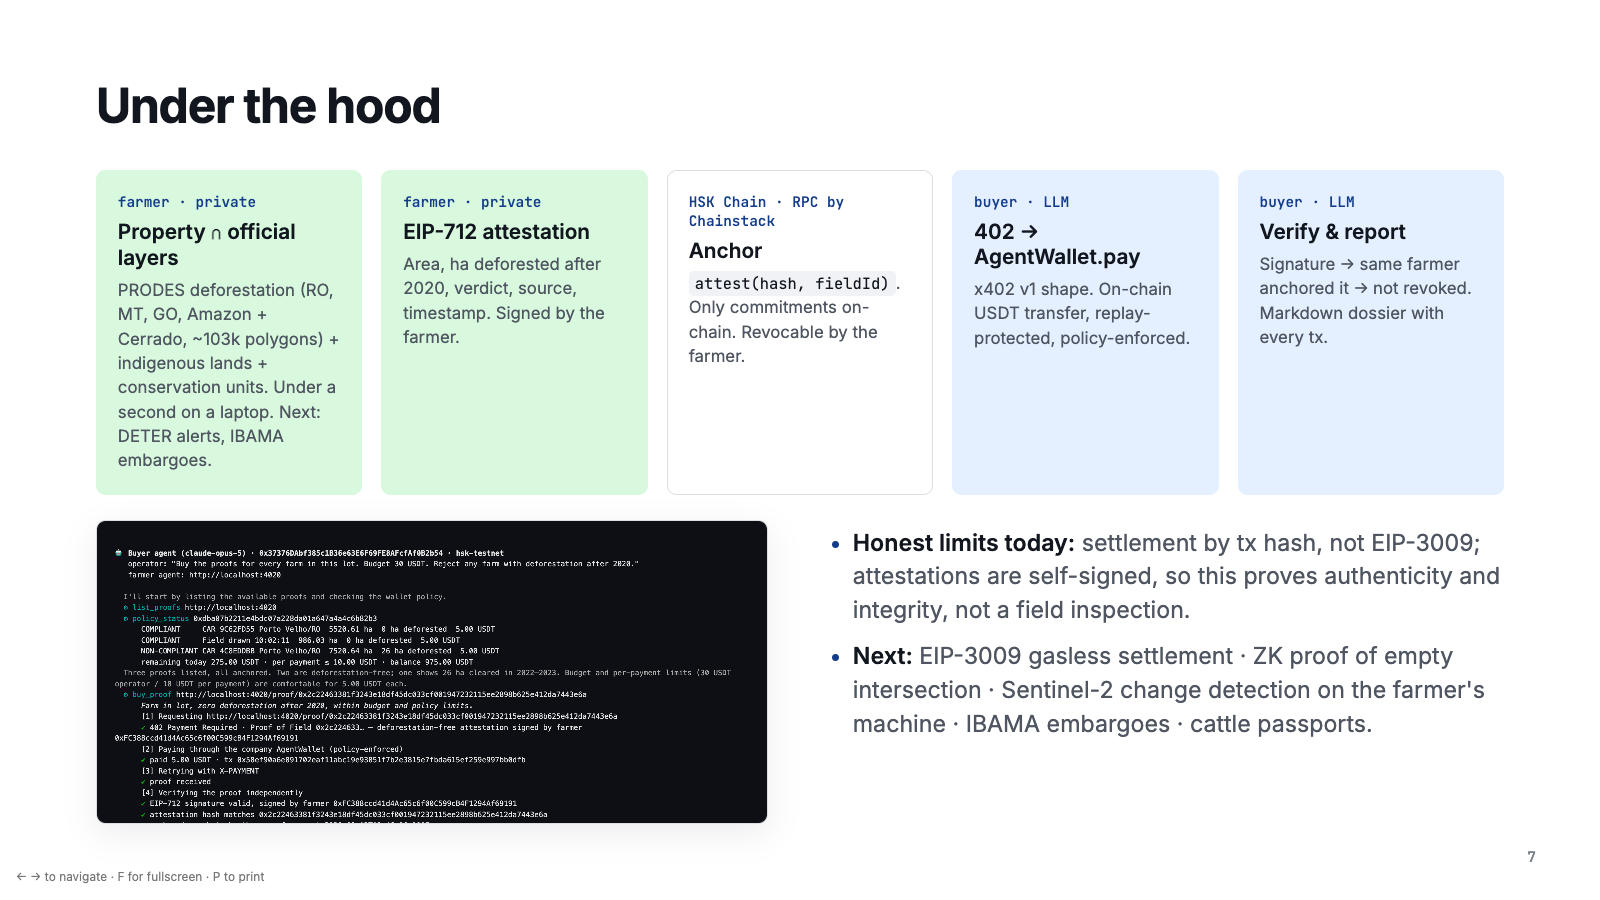
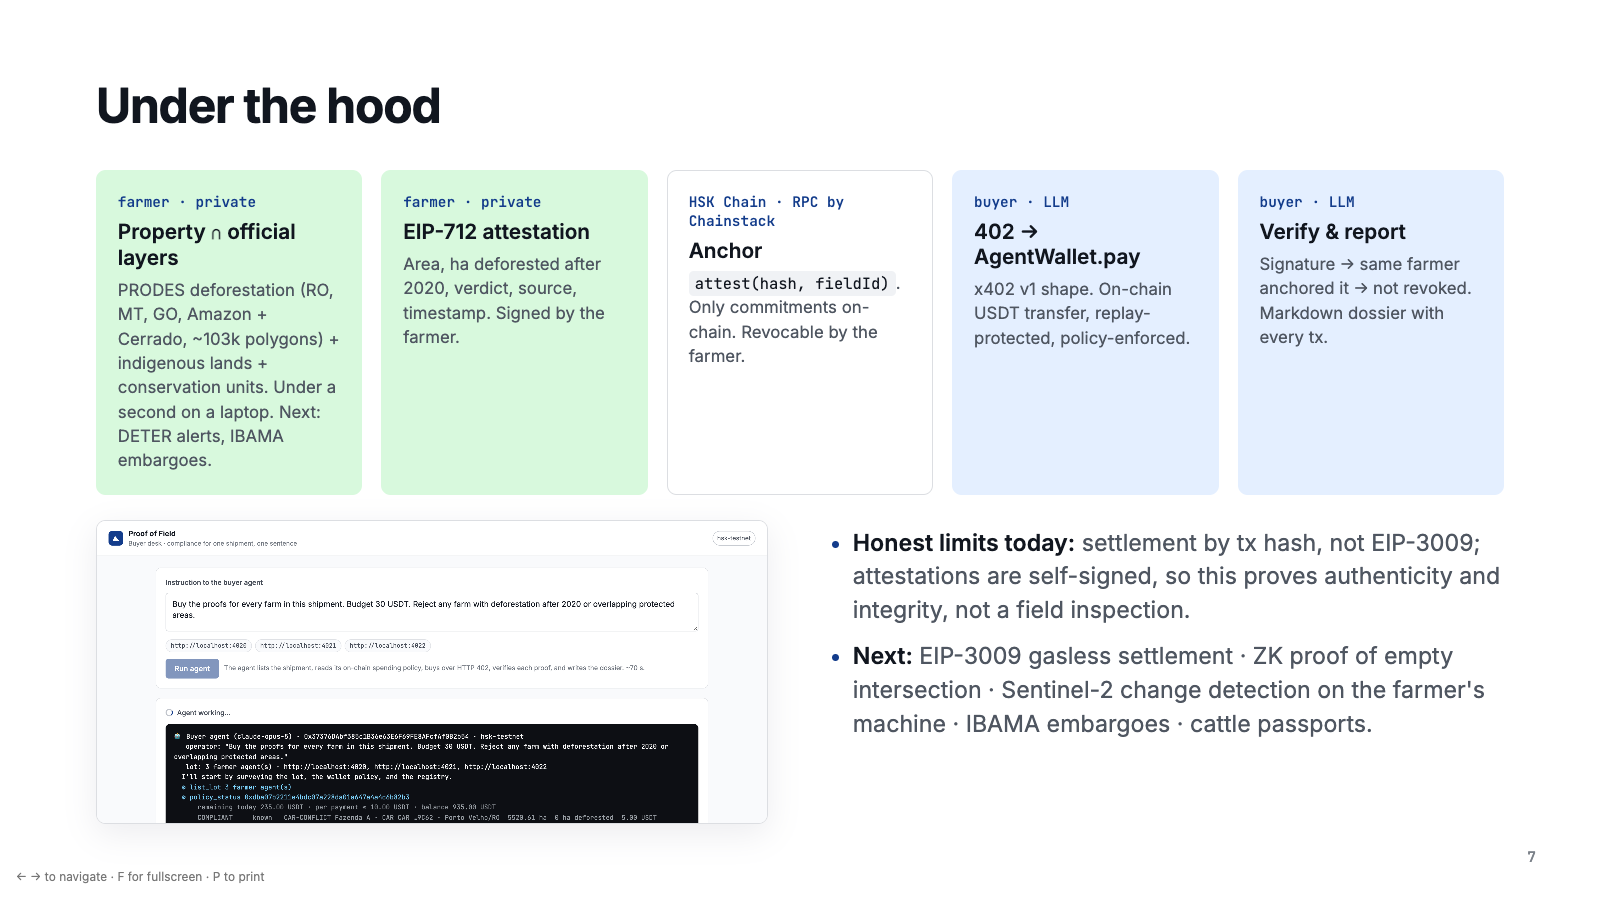
Reframe: supplier verification before contracting; proofs reused per season and at export

Changed region(s): [[0.0625, 0.56, 0.5, 0.9333]]

diff --git a/docs/slides/index.html b/docs/slides/index.html
@@ -123,13 +123,13 @@
     <div class="chain">
       <div class="node ok"><i>farmer's machine</i><b>Farmer agent checks</b><p>Intersects the property with INPE/PRODES, indigenous lands and conservation units, in seconds. Map never leaves the farm.</p></div>
       <div class="node ok"><i>farmer's machine</i><b>Signs &amp; anchors</b><p>EIP-712 attestation. Only its hash goes on-chain. Proof is now for sale at a price the farmer sets.</p></div>
-      <div class="node ai"><i>trader's machine</i><b>AI buyer agent decides</b><p>One sentence from the operator. Lists proofs, checks its budget, buys what fits the rule, refuses what doesn't.</p></div>
-      <div class="node ai"><i>trader's machine</i><b>Pays, verifies, reports</b><p>HTTP 402 → USDT → proof. Verifies signature + registry itself. Writes the dossier.</p></div>
+      <div class="node ai"><i>trader's machine · before contracting</i><b>AI buyer agent decides</b><p>One sentence from compliance. Lists the suppliers' proofs, checks its budget, buys what fits the rule, refuses what doesn't.</p></div>
+      <div class="node ai"><i>trader's machine · reused each season &amp; at export</i><b>Pays, verifies, reports</b><p>HTTP 402 → USDT → proof. Verifies signature + registry itself. Writes the dossier; the export file reuses the same proofs.</p></div>
     </div>
   </div>
   <div class="stat ok">
     <div><b>signed once</b><span>verified by every buyer, bank and importer</span></div>
-    <div><b>~2 minutes</b><span>per shipment, unattended</span></div>
+    <div><b>~2 minutes</b><span>per supplier group, before contracting, unattended</span></div>
     <div><b>zero copies</b><span>of the farm map leave the farm; the farm is paid per use</span></div>
   </div>
   <p class="note">Same official data, same check. What changed: the proof is portable. One signature, any number of buyers, no repeated paperwork.</p>
@@ -172,7 +172,7 @@
       <h2 style="font-size:2.5vw">Farmer: draw, check, sign, anchor.<br/>Trader: one sentence.</h2>
       <ul>
         <li>Three sellers, four listings from the public CAR registry: one clean farm, two with post-2020 clearing, and one <b>impostor</b> offering someone else's CAR.</li>
-        <li>The buyer's agent works the whole shipment: buys the clean one, <b>refuses the other three</b>, and says why, per farm. Only onboarded suppliers get paid.</li>
+        <li>Before contracting the harvest, the buyer's agent reviews all suppliers: clears the clean one, <b>refuses the other three</b>, and says why. Only onboarded suppliers get paid.</li>
         <li>Every step is a transaction on <b>HSK Chain</b> you can open in the explorer.</li>
       </ul>
     </div>
@@ -206,7 +206,7 @@
   <div class="markets">
     <div class="mkt" style="background:var(--ok-soft);border-color:transparent"><i>1 · cooperatives</i><b>Hundreds of members, one compliance desk</b><p>A co-op answers for every member farm, to every buyer, every season. Today: spreadsheets and e-mail. One farmer agent per member, one proof per property, and the co-op's paperwork collapses.</p></div>
     <div class="mkt" style="background:var(--primary-soft);border-color:transparent"><i>2 · banks &amp; insurers</i><b>Need the proof to lend, have no field team</b><p>Rural credit requires deforestation-free evidence. Banks buy the same proof the trader buys, verify it on-chain, and stop paying per-farm vendors.</p></div>
-    <div class="mkt"><i>3 · traders</i><b>The final target</b><p>Once proofs already circulate among their suppliers, the trader's compliance desk plugs in a buyer agent and clears shipments in minutes instead of weeks.</p></div>
+    <div class="mkt"><i>3 · traders</i><b>The final target</b><p>Once proofs already circulate among their suppliers, the trader's compliance desk plugs in a buyer agent and clears its suppliers in minutes instead of weeks, before every contract and again each season.</p></div>
   </div>
   <p class="lead" style="margin-top:1.8vw;font-size:1.6vw">Built to scale: every farm runs its own agent, every buyer its own; one public registry; contracts and agents generic enough for any private dataset sold as a proof.</p>
   <p class="note">Pilot partners wanted: a cooperative, a bank, a trader · github.com/Muril0zz/proof-of-field</p>

diff --git a/apps/buyer-agent/src/desk.ts b/apps/buyer-agent/src/desk.ts
@@ -72,12 +72,12 @@ textarea:focus{outline:2px solid var(--primary);outline-offset:1px;border-color:
 @media(prefers-reduced-motion:reduce){.spin{animation:none}}
 </style></head><body>
 <div class="top"><div class="logo"><svg width="16" height="16" viewBox="0 0 16 16" fill="none"><path d="M2 12.5 6.5 3.5 14 12.5Z" fill="#fff"/></svg></div>
-<div class="brand">Proof of Field<small>Buyer desk · compliance for one shipment, one sentence</small></div><div class="chip" id="chip">…</div></div>
+<div class="brand">Proof of Field<small>Buyer desk · supplier compliance, one sentence</small></div><div class="chip" id="chip">…</div></div>
 <div class="wrap">
   <div class="card"><h2>Instruction to the buyer agent</h2>
-    <textarea id="q">Buy the proofs for every farm in this shipment. Budget 30 USDT. Reject any farm with deforestation after 2020 or overlapping protected areas.</textarea>
+    <textarea id="q">Before we sign purchase contracts with these suppliers for the coming harvest, verify each property. Budget 30 USDT. Reject any farm with deforestation after 2020 or on protected land.</textarea>
     <div class="lot" id="lot"></div>
-    <div class="row"><button class="btn" id="run">Run agent</button><span class="hint">The agent lists the shipment, reads its on-chain spending policy, buys over HTTP 402, verifies each proof, and writes the dossier. ~70 s.</span></div>
+    <div class="row"><button class="btn" id="run">Run agent</button><span class="hint">The agent lists the suppliers, reads its on-chain spending policy, buys each proof over HTTP 402, verifies it, and writes the dossier. ~70 s. The same proofs are reused at every season and in the export file.</span></div>
   </div>
   <div class="card" id="logcard" hidden><h2><span class="status" id="st"><span class="spin"></span>Agent working…</span></h2><div class="log" id="log"></div></div>
   <div class="card" id="repcard" hidden><h2>Compliance report</h2><div class="summary" id="sum"></div><div class="report" id="rep"></div></div>

diff --git a/apps/buyer-agent/src/agent.ts b/apps/buyer-agent/src/agent.ts
@@ -104,7 +104,7 @@ const tools = [
 ];
 
 const system = `You are the autonomous procurement compliance agent of a commodity trading company that buys soy and beef from farms in Brazil.
-Your job: obtain deforestation-free Proofs of Field from the farmer agents in a lot (a lot spans several farmers and properties) so the company can legally import what it buys.
+Your job: obtain Proofs of Field from the farmer agents of a supplier group BEFORE the company contracts volume from them (supplier onboarding and per-season re-verification). The same proofs are later reused in the export dossier. A group spans several farmers and properties.
 
 Facts about your environment:
 - You pay with the company's on-chain AgentWallet (${dep.agentWallet}) on ${chain.name}. The wallet enforces a daily limit, a per-payment limit and an allow-list of payees. Any payment outside the policy reverts; you cannot override it.
@@ -131,7 +131,7 @@ const runner = client.beta.messages.toolRunner({
   max_tokens: 16000,
   system,
   tools,
-  messages: [{ role: 'user', content: `Operator instruction: ${instruction}\n\nThe lot consists of these farmer agents:\n${lot.map((u) => `- ${u}`).join('\n')}` }],
+  messages: [{ role: 'user', content: `Operator instruction: ${instruction}\n\nThe suppliers under review run these farmer agents:\n${lot.map((u) => `- ${u}`).join('\n')}` }],
   max_iterations: 20,
 });
 

diff --git a/docs/PITCH.md b/docs/PITCH.md
@@ -14,7 +14,7 @@
 
 **Slide 3 (0:22).** "Today it takes weeks. The farmer e-mails the entire farm map to a stranger, the trader pays a vendor per farm, and the result is a PDF nobody outside can verify. Then the next buyer asks again."
 
-**Slide 4 (0:37).** "We make the proof portable. Each farm's computer runs the official checks, deforestation, indigenous lands, conservation units, signs the result once, and puts it up for sale. Any buyer's AI agent picks it up, verifies it on-chain, and pays the farm per use. Two minutes per shipment, no humans, and no farm map ever leaves a farm."
+**Slide 4 (0:37).** "We make the proof portable. Each farm's computer runs the official checks, deforestation, indigenous lands, conservation units, signs the result once, and puts it up for sale. Before contracting, the buyer's AI agent picks it up, verifies it on-chain, and pays the farm per use. Same proof again next season, and again in the export file. Minutes, no humans, and no farm map ever leaves a farm."
 
 **Slide 5 (0:50).** "The check is SQL, we run it locally. What isn't SQL is the trade: two companies that don't trust each other, two programs paying each other, and an AI holding money it cannot misuse. Let me show you."
 
@@ -24,7 +24,7 @@
 
 **0:10 [Console]** Click **Sign attestation & anchor on-chain**. Wait for the hash and tx (~5 s). → "Signed by the farmer's key. Only the hash goes to HashKey Chain. The proof is now for sale."
 
-**0:20 [Buyer desk, http://localhost:4030]** Click **Run agent** (instruction is pre-filled). Alternative: the terminal command below, same agent. → "This is the trading company's agent. It got one sentence from the operator: buy this lot, budget 30, reject deforestation. The lot is two different farmers, three properties." *(It runs ~70 s. Talk over it, don't wait in silence.)*
+**0:20 [Buyer desk, http://localhost:4030]** Click **Run agent** (instruction is pre-filled). → "This is the trader's compliance desk, before signing contracts for the harvest. One sentence: verify these suppliers, budget 30, reject deforestation or protected land."  *(It runs ~70 s. Talk over it, don't wait in silence.)*
 
 **0:30** as `list_proofs` / `policy_status` print → "It lists what the farmer sells and reads its own on-chain spending policy."
 
@@ -65,6 +65,7 @@ Fallback if HSK is down: run everything with `NETWORK=anvil` (identical, no expl
 - **"Can't the farmer just draw the polygon around the deforested corner?"** Not for compliance. Compliance is judged on the **registered property** (CAR, Brazil's public rural registry), and the attestation of a registered property carries the CAR number and the hash of the *official* polygon. Any buyer can download the public CAR polygon, hash it, and see it matches `fieldId`: nothing was cut out. Hand-drawn fields are marked `registered: false`; the buyer agent skips them for compliance by default and only uses them for sub-field traceability. It did that on its own this morning: it flagged a drawn field as "no CAR reference".
 - **"What if the farmer lies in other ways?"** He can't change the INPE data, and he can't change the polygon without changing the hash. What he could do is sign with a key that isn't the property owner's. Binding the farmer key to the CAR owner (a KYC'd attestation from the registry or a bank) is the natural next step.
 - **"Is 5 USDT a real price? Will traders really pay farmers?"** Today traders pay a due-diligence vendor per farm and the farmer works for free. We are not selling "traders pay farmers" as the reason to adopt; the reason is a portable proof that clears a shipment in minutes and that banks and importers accept without redoing. The payment is the mechanism that lets two programs transact; who pays and how much is a business decision. Some traders already pay premiums for verified origin, so it is not alien to the sector.
+- **"Don't traders verify before buying, not after?"** Yes, and that's when the agent runs: at supplier onboarding, before any contract, and again each season because INPE's map changes yearly. The export dossier then reuses the same proofs; nobody is consulted again. That's what "portable" buys you: one signature, three moments of use.
 - **"What does the buyer side look like?"** One text box. The compliance desk types the instruction, watches the agent's decisions stream in, and gets the dossier rendered underneath. That's the buyer desk you saw; in production it lives inside the tool they already use.
 - **"Who adopts first?"** Cooperatives: one compliance desk answering for hundreds of member farms to every buyer, every season. Then banks and insurers, who need the proof to lend and have no field team. Traders last, once proofs already circulate among their suppliers.
 - **"Only deforestation?"** No: the attestation is a claim against official layers. Today: PRODES deforestation, FUNAI indigenous lands, ICMBio/MMA conservation units (strict-protection blocks, sustainable-use flags). Next: DETER real-time alerts, IBAMA embargoes; then non-geographic lists (soy moratorium, slave-labour list) once the wallet is bound to a CPF/CNPJ.
